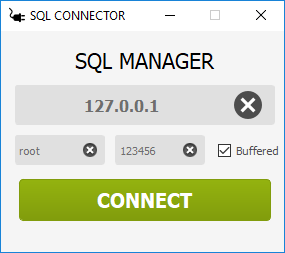
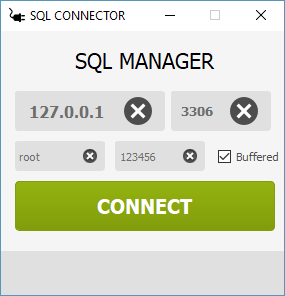
Added PORT Selection

diff --git a/Lib/Style.css b/Lib/Style.css
@@ -633,7 +633,7 @@ Gui--PropertyEditor--PropertyEditor > QWidget > QWidget > QWidget {
 Header of tree and list views
 ==================================================================================================*/
 QHeaderView {
-    background-color: #c3c3c3;
+    background-color: transparent;
     border-top-left-radius: 2px; /* 1px less than its container */
     border-top-right-radius: 2px; /* 1px less than its container */
     border-bottom-left-radius: 0px;

diff --git a/Lib/UI/SCRIPT/ConnectorWindow.py b/Lib/UI/SCRIPT/ConnectorWindow.py
@@ -11,7 +11,7 @@ from PyQt5 import QtCore, QtGui, QtWidgets
 class Ui_Connector(object):
     def setupUi(self, Connector):
         Connector.setObjectName("Connector")
-        Connector.resize(283, 221)
+        Connector.resize(283, 264)
         self.centralwidget = QtWidgets.QWidget(Connector)
         self.centralwidget.setObjectName("centralwidget")
         self.title = QtWidgets.QLabel(self.centralwidget)
@@ -23,7 +23,7 @@ class Ui_Connector(object):
         self.title.setObjectName("title")
         self.Connect_btn = QtWidgets.QPushButton(self.centralwidget)
         self.Connect_btn.setEnabled(True)
-        self.Connect_btn.setGeometry(QtCore.QRect(14, 144, 260, 50))
+        self.Connect_btn.setGeometry(QtCore.QRect(14, 150, 260, 50))
         font = QtGui.QFont()
         font.setPointSize(15)
         font.setBold(True)
@@ -31,7 +31,7 @@ class Ui_Connector(object):
         self.Connect_btn.setFont(font)
         self.Connect_btn.setObjectName("Connect_btn")
         self.host_in = QtWidgets.QLineEdit(self.centralwidget)
-        self.host_in.setGeometry(QtCore.QRect(14, 54, 260, 40))
+        self.host_in.setGeometry(QtCore.QRect(14, 60, 150, 40))
         font = QtGui.QFont()
         font.setPointSize(12)
         font.setBold(True)
@@ -42,18 +42,18 @@ class Ui_Connector(object):
         self.host_in.setClearButtonEnabled(True)
         self.host_in.setObjectName("host_in")
         self.user_in = QtWidgets.QLineEdit(self.centralwidget)
-        self.user_in.setGeometry(QtCore.QRect(14, 104, 90, 30))
+        self.user_in.setGeometry(QtCore.QRect(14, 110, 90, 30))
         self.user_in.setClearButtonEnabled(True)
         self.user_in.setObjectName("user_in")
         self.pass_in = QtWidgets.QLineEdit(self.centralwidget)
-        self.pass_in.setGeometry(QtCore.QRect(114, 104, 90, 30))
+        self.pass_in.setGeometry(QtCore.QRect(114, 110, 90, 30))
         self.pass_in.setEchoMode(QtWidgets.QLineEdit.Normal)
         self.pass_in.setCursorMoveStyle(QtCore.Qt.LogicalMoveStyle)
         self.pass_in.setClearButtonEnabled(True)
         self.pass_in.setObjectName("pass_in")
         self.buffered = QtWidgets.QCheckBox(self.centralwidget)
         self.buffered.setEnabled(True)
-        self.buffered.setGeometry(QtCore.QRect(214, 104, 80, 30))
+        self.buffered.setGeometry(QtCore.QRect(214, 110, 80, 30))
         self.buffered.setStyleSheet("")
         self.buffered.setCheckable(True)
         self.buffered.setChecked(True)
@@ -61,6 +61,20 @@ class Ui_Connector(object):
         self.buffered.setAutoExclusive(False)
         self.buffered.setTristate(False)
         self.buffered.setObjectName("buffered")
+        self.port_in = QtWidgets.QLineEdit(self.centralwidget)
+        self.port_in.setGeometry(QtCore.QRect(170, 60, 100, 40))
+        font = QtGui.QFont()
+        font.setPointSize(10)
+        font.setBold(True)
+        font.setWeight(75)
+        self.port_in.setFont(font)
+        self.port_in.setFrame(True)
+        self.port_in.setAlignment(QtCore.Qt.AlignCenter)
+        self.port_in.setClearButtonEnabled(True)
+        self.port_in.setObjectName("port_in")
+        self.console_out = QtWidgets.QTextBrowser(self.centralwidget)
+        self.console_out.setGeometry(QtCore.QRect(-1, 220, 286, 45))
+        self.console_out.setObjectName("console_out")
         Connector.setCentralWidget(self.centralwidget)
 
         self.retranslateUi(Connector)
@@ -78,6 +92,8 @@ class Ui_Connector(object):
         self.pass_in.setText(_translate("Connector", "123456"))
         self.pass_in.setPlaceholderText(_translate("Connector", "Password:"))
         self.buffered.setText(_translate("Connector", "Buffered"))
+        self.port_in.setText(_translate("Connector", "3306"))
+        self.port_in.setPlaceholderText(_translate("Connector", "Port:"))
 
 
 if __name__ == "__main__":

diff --git a/Connector.py b/Connector.py
@@ -2,7 +2,7 @@ import sys
 import mysql.connector as mysql
 
 from PyQt5.QtCore import pyqtSlot,QFile, QTextStream
-from PyQt5.QtWidgets import QApplication, QDialog,QMainWindow,QStyleFactory,QAction,QMenu,QStatusBar
+from PyQt5.QtWidgets import QApplication, QDialog,QMainWindow,QStyleFactory,QAction,QMenu
 from PyQt5.uic import loadUi
 from PyQt5 import QtGui
 
@@ -22,17 +22,15 @@ class MainWindow(QMainWindow,Ui_Connector):
         super(MainWindow,self).__init__(parent)
         self.setupUi(self)
         self.setFixedSize(self.size())        
-        self.statusBar = QStatusBar()
-        self.setStatusBar(self.statusBar)
         self.setWindowIcon(QtGui.QIcon(ico_connector))
 
-        self.statusBar.showMessage("STARTED",2000)
         self.show()
 
         self.Connect_btn.clicked.connect(self.Connect)
 
     def Connect (self):
         self._host = self.host_in.displayText()
+        self._port = self.port_in.displayText() 
         self._user = self.user_in.displayText()
         self._pass = self.pass_in.displayText()
         self.buffered_c = self.buffered.isChecked()
@@ -41,16 +39,17 @@ class MainWindow(QMainWindow,Ui_Connector):
         try:
             mydb = mysql.connect(
             host=self._host,
+            port=self._port,
             user=self._user,passwd=self._pass,
             buffered=self.buffered_c
             )
-            self.statusBar.showMessage("CONNECTED: %s"%self._host,10000)
 
-            self.manager = ManagerWindow(self._host,self._user,self._pass,self.buffered_c)
+            self.manager = ManagerWindow(self._host,self._port,self._user,self._pass,self.buffered_c)
             self.close()
         
         except Exception as error:
-            self.statusBar.showMessage("ERROR:%s"%error,10000)
+            # self.console_out.appendHtml("%s"%error)
+            
             print(error)
             pass
     

diff --git a/Core/Manager.py b/Core/Manager.py
@@ -27,7 +27,7 @@ from functools          import partial
 
 
 class ManagerWindow(QMainWindow,QToolBar,QTreeWidgetItem,QCoreApplication,Ui_SQLMANAGER,object):
-    def __init__(self,hs,us,ps,bfr, parent = None):
+    def __init__(self,hs,pt,us,ps,bfr, parent = None):
         super(ManagerWindow,self).__init__(parent)
         self.setupUi(self)
         self.setFixedSize(self.size())
@@ -36,12 +36,13 @@ class ManagerWindow(QMainWindow,QToolBar,QTreeWidgetItem,QCoreApplication,Ui_SQL
         self.show()
 
         self.hs = hs
+        self.pt = pt
         self.us = us
         self.ps = ps
         self.bfred = bfr
 
         try:
-            self.mydb = mysql.connect(host=self.hs,user=self.us,passwd=self.ps,buffered=self.bfred)
+            self.mydb = mysql.connect(host=self.hs,port=self.pt,user=self.us,passwd=self.ps,buffered=self.bfred)
             self.Get_Databases()
             self.WriteConsole('<b>Connected to SQL Server</b>')
         except:
